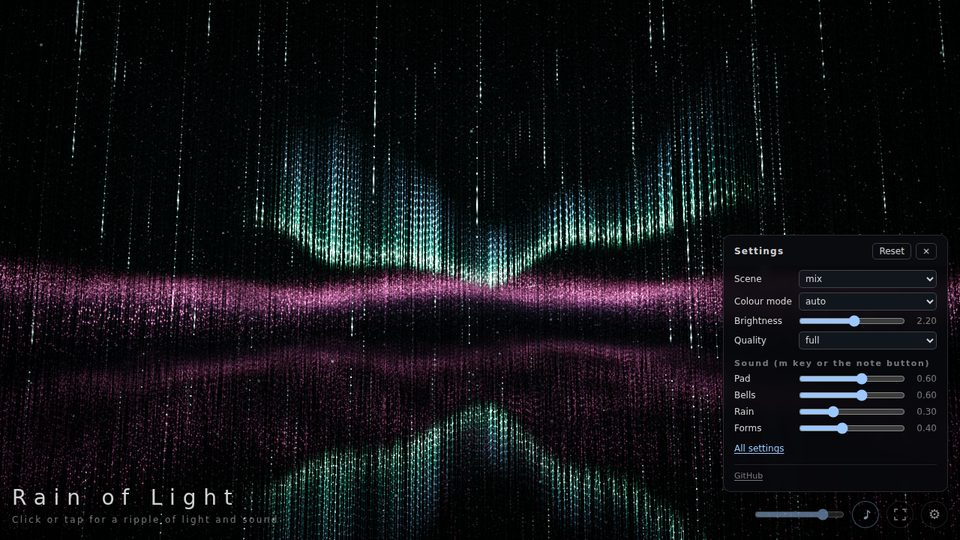
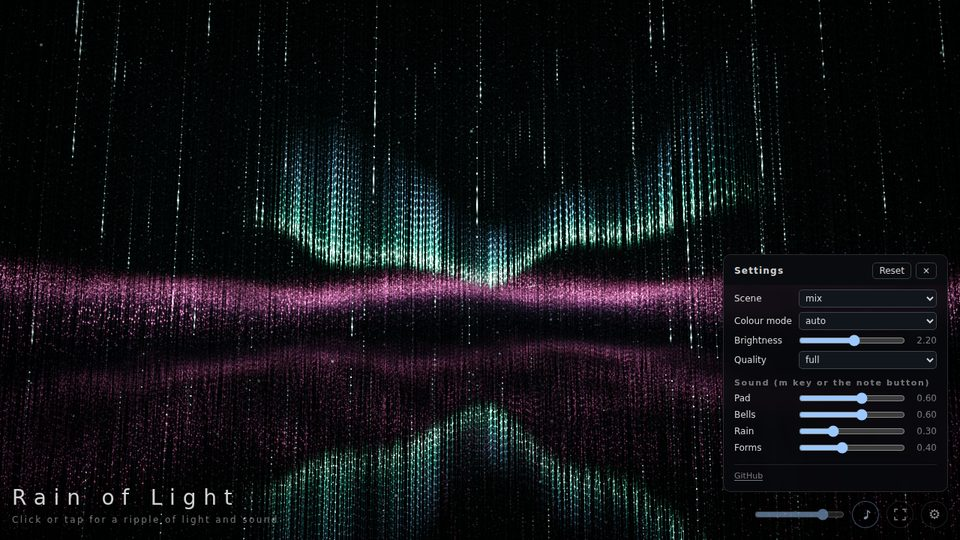
Viewer page: no link to the lab; the lab is opened by its address
The viewer panel's 'All settings' link is gone (lab.html stays reachable by URL, and keeps its link back). Smoke test asserts the viewer has no link to lab.html; docs and the panel picture updated.

Claude-Session: https://claude.ai/code/session_0164gFYjuuY4e2f6YPbyiUFR

Changed region(s): [[0.75, 0.4444, 1.0, 0.8593]]

diff --git a/tuner.js b/tuner.js
@@ -86,16 +86,20 @@ export function createTuner({ schema, lab = false, settings, defaults, storageKe
     root.append(section);
   }
 
-  // The other page, with the same URL settings and the panel open.
-  const other = document.createElement('p');
-  other.className = 'tuner-page';
-  const link = document.createElement('a');
-  link.href = `${lab ? './' : 'lab.html'}${location.search}#tune`;
-  link.textContent = lab ? 'Fewer settings' : 'All settings';
-  link.title = lab ? 'The viewer page' : 'The lab: every setting';
-  other.append(link);
+  // The lab links back to the viewer page (same URL settings, panel open). The
+  // viewer page has no link to the lab: that is opened by its address.
   const foot = footer();
-  root.append(other, foot);
+  if (lab) {
+    const other = document.createElement('p');
+    other.className = 'tuner-page';
+    const link = document.createElement('a');
+    link.href = `./${location.search}#tune`;
+    link.textContent = 'Fewer settings';
+    link.title = 'The viewer page';
+    other.append(link);
+    root.append(other);
+  }
+  root.append(foot);
   document.body.append(toggle, root);
   refresh();
   let versionAsked = false;

diff --git a/style.css b/style.css
@@ -225,7 +225,7 @@ body.idle .full-toggle:focus-visible, body.idle .rotate-toggle:focus-visible, bo
   color: var(--dim);
 }
 
-/* The link to the other page (all settings, or fewer). */
+/* The lab's link back to the viewer page (fewer settings). */
 .tuner-page { margin: 12px 0 0; font-size: 12px; }
 .tuner-page a { color: #9cc8ff; text-underline-offset: 2px; }
 .tuner-page a:focus-visible { outline: 2px solid #9cc8ff; outline-offset: 2px; border-radius: 2px; }

diff --git a/docs/settings.md b/docs/settings.md
@@ -95,17 +95,18 @@ The site has two pages, with the same picture, keys and URL parameters:
 - **The viewer page** (`index.html`, the address of the site) has a small
   panel: Scene, Colour mode, Brightness (the Exposure setting), Quality,
   and the levels of the sound (Pad, Bells, Rain, Forms). The volume is the
-  bar by the buttons. Its link **All settings** opens the lab.
+  bar by the buttons. It has no link to the lab: the lab is opened by its
+  address (`…/lab.html`).
 - **The lab** (`lab.html`) has every setting in its panel, in groups. Its
   link **Fewer settings** opens the viewer page.
 
-![The viewer page's small panel at the lower right: Scene, Colour mode, Brightness, Quality and four sound levels, a link to all settings, and the GitHub link](img/viewer-panel.jpg)
+![The viewer page's small panel at the lower right: Scene, Colour mode, Brightness, Quality and four sound levels, and the GitHub link](img/viewer-panel.jpg)
 
 ![The lab's panel open on the right of the picture: Scene, Form, Layer of light, the mirror sliders and more, each row with its default; Twinkle and Quality are not at theirs, and are marked](img/panel.jpg)
 
 The gear button or the `p` key opens the panel; a link that ends in
 `#tune` opens the page with it (`lab.html#tune`: the lab with its panel
-open). A link to the other page keeps the URL query, and opens its panel.
+open). The lab's link back to the viewer page keeps the URL query, and opens its panel.
 A change shows at once, without a reload.
 
 - Both pages keep what you change in this browser, in one set of saved

diff --git a/docs/design.md b/docs/design.md
@@ -922,7 +922,8 @@ Two pages run the same app, with two panels:
   differs from `index.html` only in `data-page="lab"` on `<html>` (read by
   `main.js`), its title and its share tags.
 
-Each panel links to the other page with the same URL query and `#tune`.
+The lab's panel links to the viewer page with the same URL query and `#tune`;
+the viewer page has no link to the lab, which is opened by its address.
 Both pages read and save the same settings (`STORAGE_KEY`): a setting
 changed in the lab stays changed on the viewer page, which does not show
 it, and the viewer page's Reset sets it back with every other one. So a
@@ -1122,7 +1123,7 @@ Details and commands are in [development.md](development.md).
   scene change without a reload, and Reset), every colour mode, both panels
   (`lab.html#tune` and `#tune`: the GitHub link and the commit link from a
   fake `version.json`, the sliders' `touch-action`, which settings each
-  shows, the link to the other page, and the shared saved settings that
+  shows, the lab's link to the viewer page (and none from the viewer page to the lab), and the shared saved settings that
   the viewer page's Reset clears), the rain scene in the lab and the
   crystal scene (with the same click, keys and Reset), a seeded time with and without the story, four of the forms
   held, and `?jitter=pitch`. It then renders the sound: a held orb must be

diff --git a/docs/development.md b/docs/development.md
@@ -22,7 +22,7 @@ reload.
 | File | What |
 | --- | --- |
 | `index.html`, `style.css` | the viewer page, with a small settings panel |
-| `lab.html` | the lab: the same page, with every setting in its panel (`data-page="lab"`) |
+| `lab.html` | the lab: the same page, with every setting in its panel (`data-page="lab"`); opened by its address, the viewer page does not link to it |
 | `boot.js` | shows any error on the page, and registers the service worker |
 | `main.js` | the frame loop: puts the directors' choices to work, the camera, the drawing |
 | `director.js` | the rain's director: which weather, colour mode, density and camera move come when, from the seed; and the colour story's mood |
@@ -127,7 +127,7 @@ about 11 s to 3 s. It visits:
   (`#tune`): the repository link and the commit link from a fake
   `version.json`, that the sliders let a finger scroll, which settings
   each panel shows (the viewer page: the items marked `viewer` in
-  `config.js`), the link to the other page, and that the viewer page sees
+  `config.js`), the lab's link to the viewer page (the viewer page has no link to the lab), and that the viewer page sees
   a setting the lab saved and its Reset clears it;
 - the pinned scenes (`rain` in the lab, `crystal`, both with the click,
   keys and Reset), a time part-way through the show

diff --git a/README.md b/README.md
@@ -52,9 +52,9 @@ Inspired by teamLab's *Light Sculpture - Point*.
   | `r` | landscape / portrait |
 
 The settings panel (⚙ or `p`) has a few settings: the scene, the colour,
-the brightness, the quality and the sound's levels. Its link **All
-settings** opens the lab, [`lab.html`](https://sf624.github.io/rain-of-light/lab.html):
-the same page with every setting in its panel. Both pages keep what you
+the brightness, the quality and the sound's levels. The lab,
+[`lab.html`](https://sf624.github.io/rain-of-light/lab.html), is opened by
+its address: the same page with every setting in its panel. Both pages keep what you
 change in this browser; Reset brings back every default. Any setting can
 also go in the URL, on either page. A few that people use:
 
